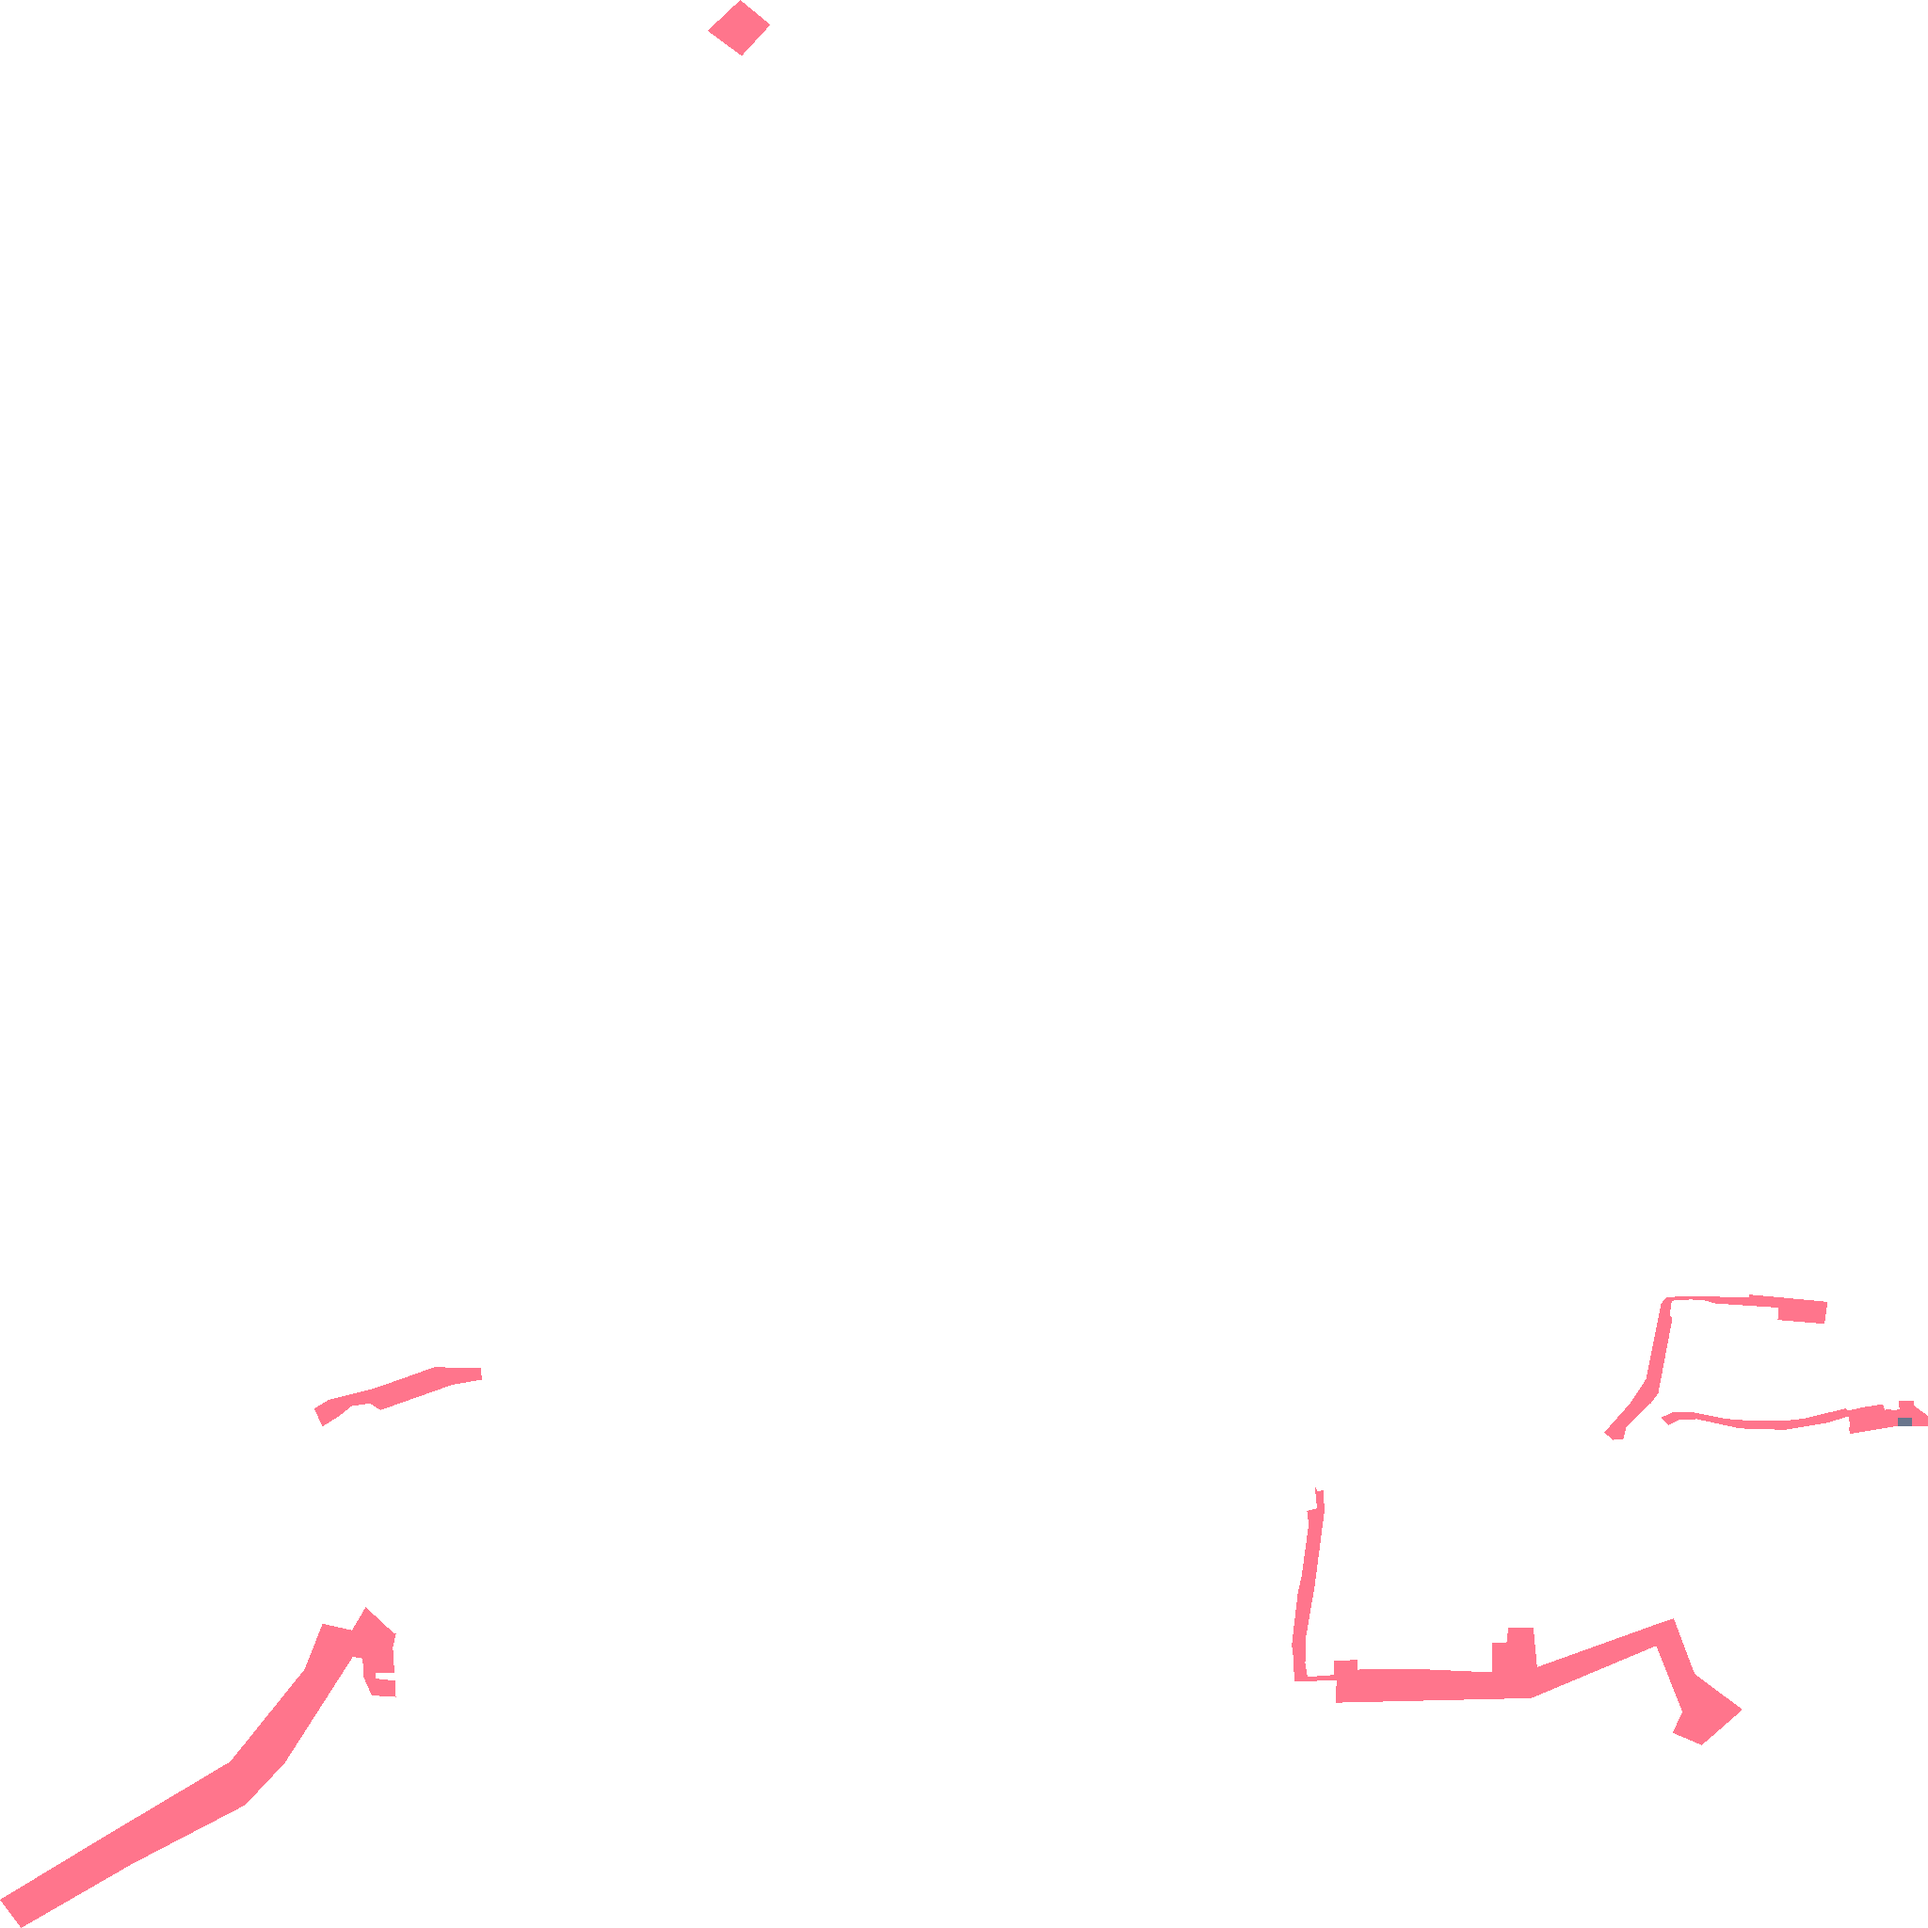
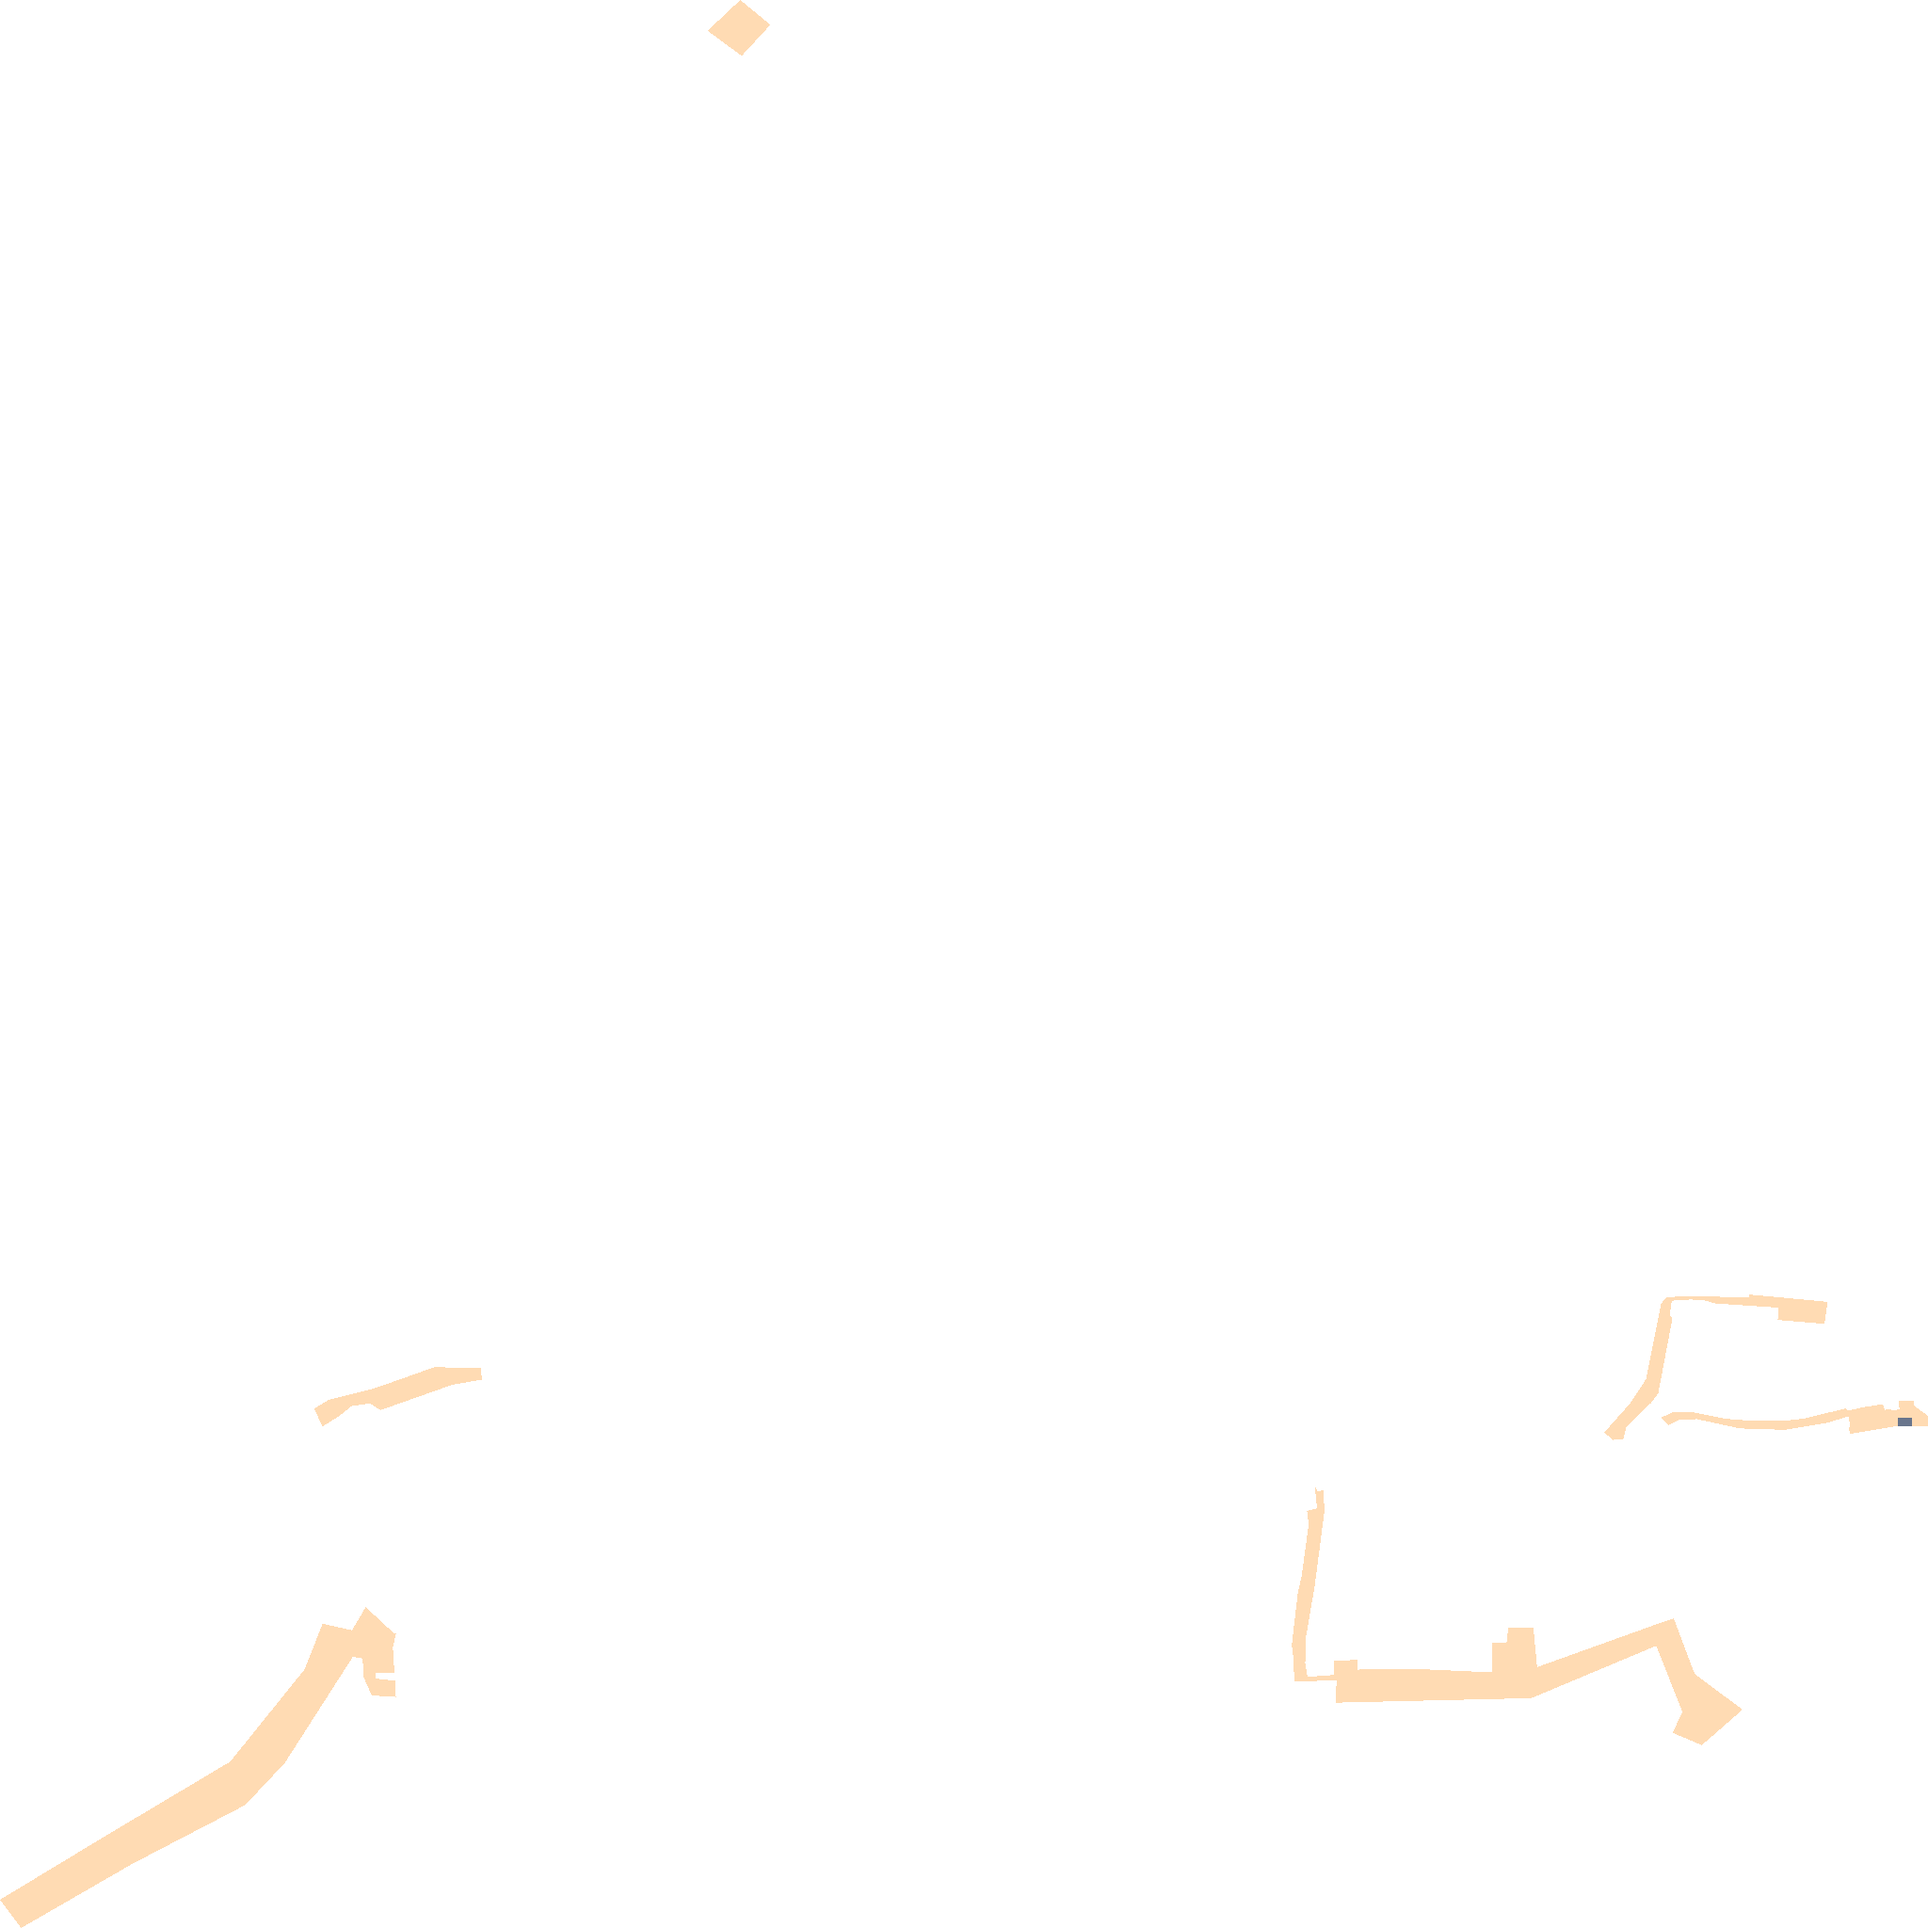
Karte p_572

diff --git a/p_572.html b/p_572.html
@@ -128,8 +128,9 @@
 <body>
     <div id="map"></div>
     <div id="legend">
-        <div><span style="display:inline-block; width:20px; height:10px; background:#FF7F00; margin-right:5px;"></span>Ausbauphase 1: Ausbau bei ausreichender Nachfrage</div>
+        <div><span style="display:inline-block; width:20px; height:10px; background:#FF7F00; margin-right:5px;"></span>Ausbauphase 1: Glasfasernetz vorhanden oder geplant</div>
         <div><span style="display:inline-block;width:20px; height:10px; background:#00143C; margin-right:5px;"></span>Ausbauphase 2: Interessenbekundung möglich</div>
+        <div><span style="display:inline-block;width:20px; height:10px; background:#FFC17D; margin-right:5px;"></span>Ausbauphase 3: Gefördertes Ausbaugebiet </div>
     </div>
     <script>
     const bounds = [[49.050497482, 9.046268907], [49.101142954, 9.10977176]];
